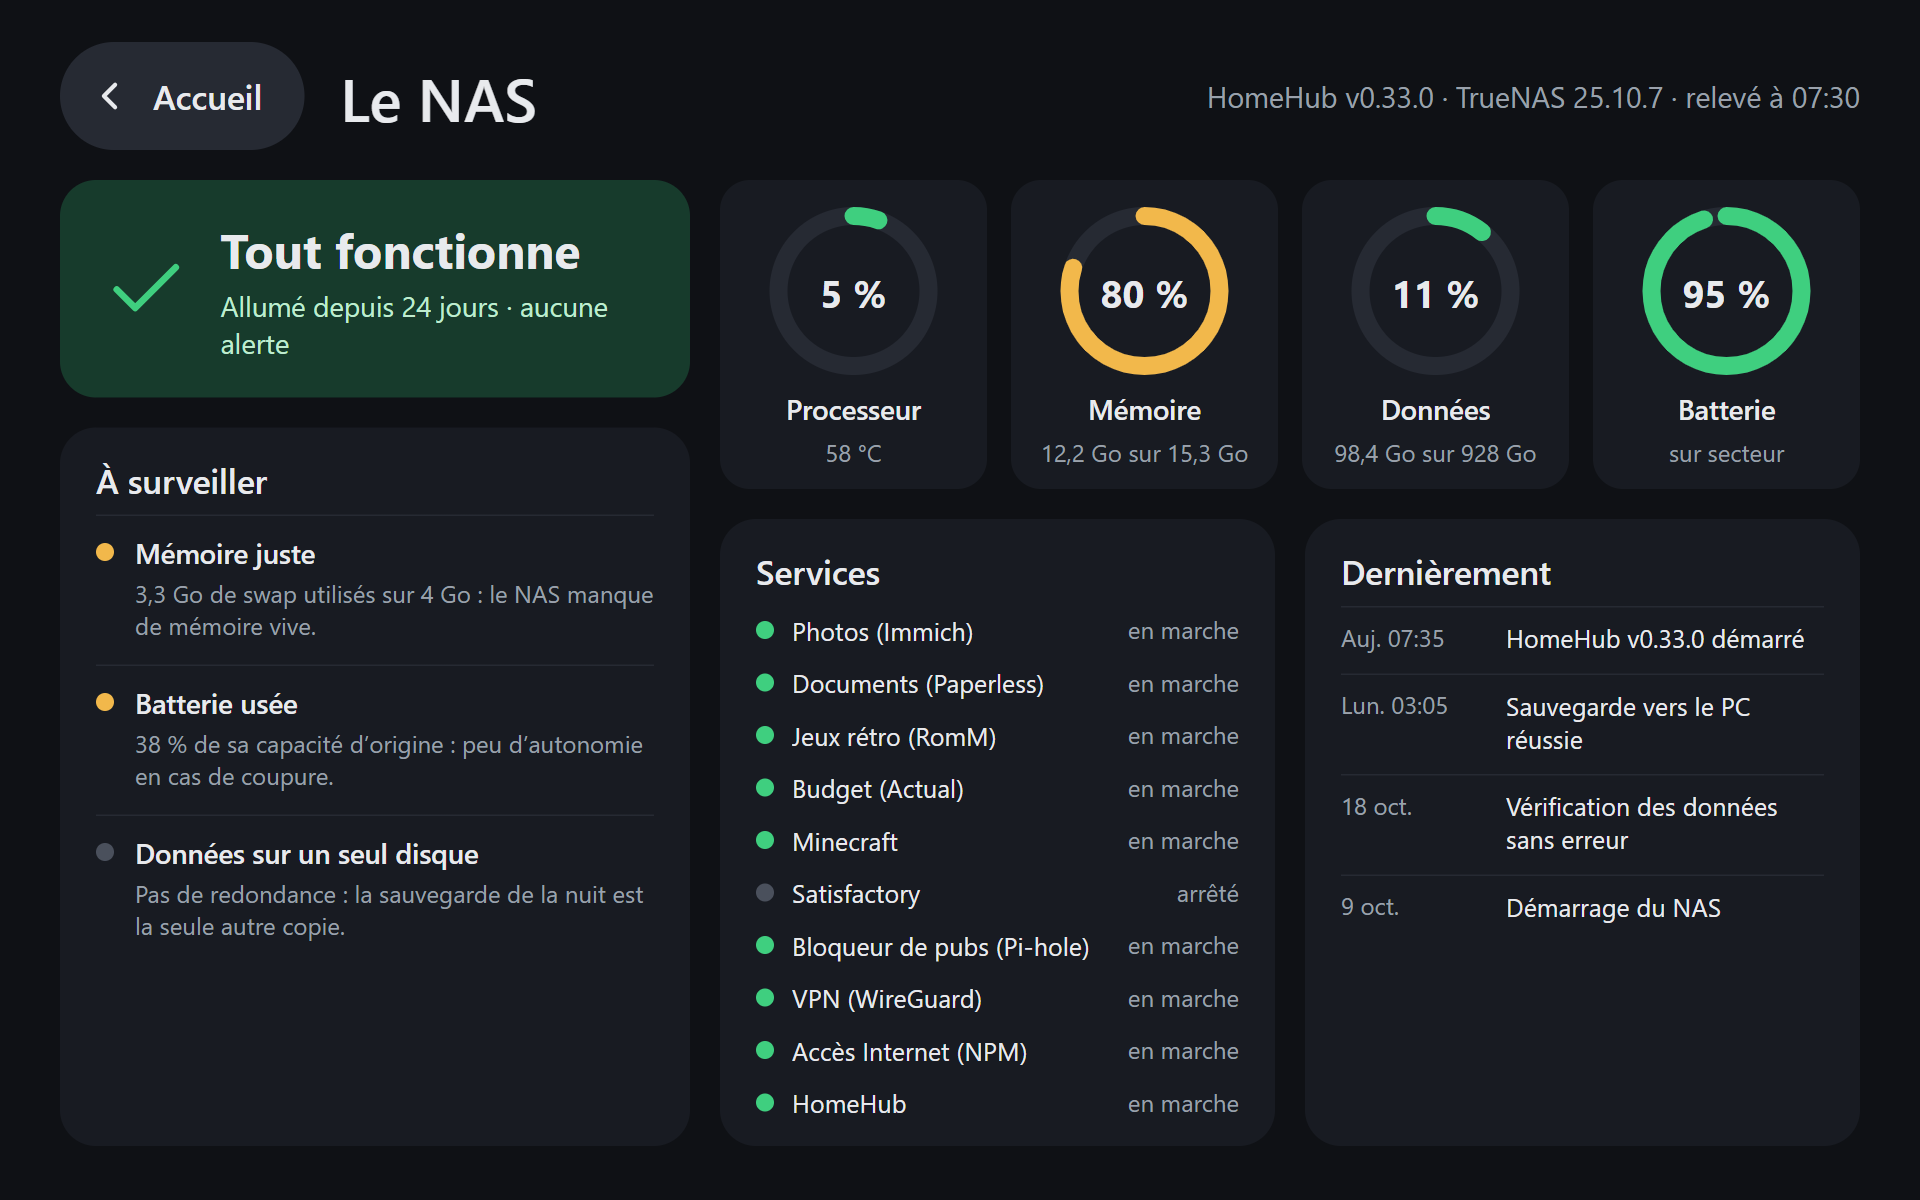
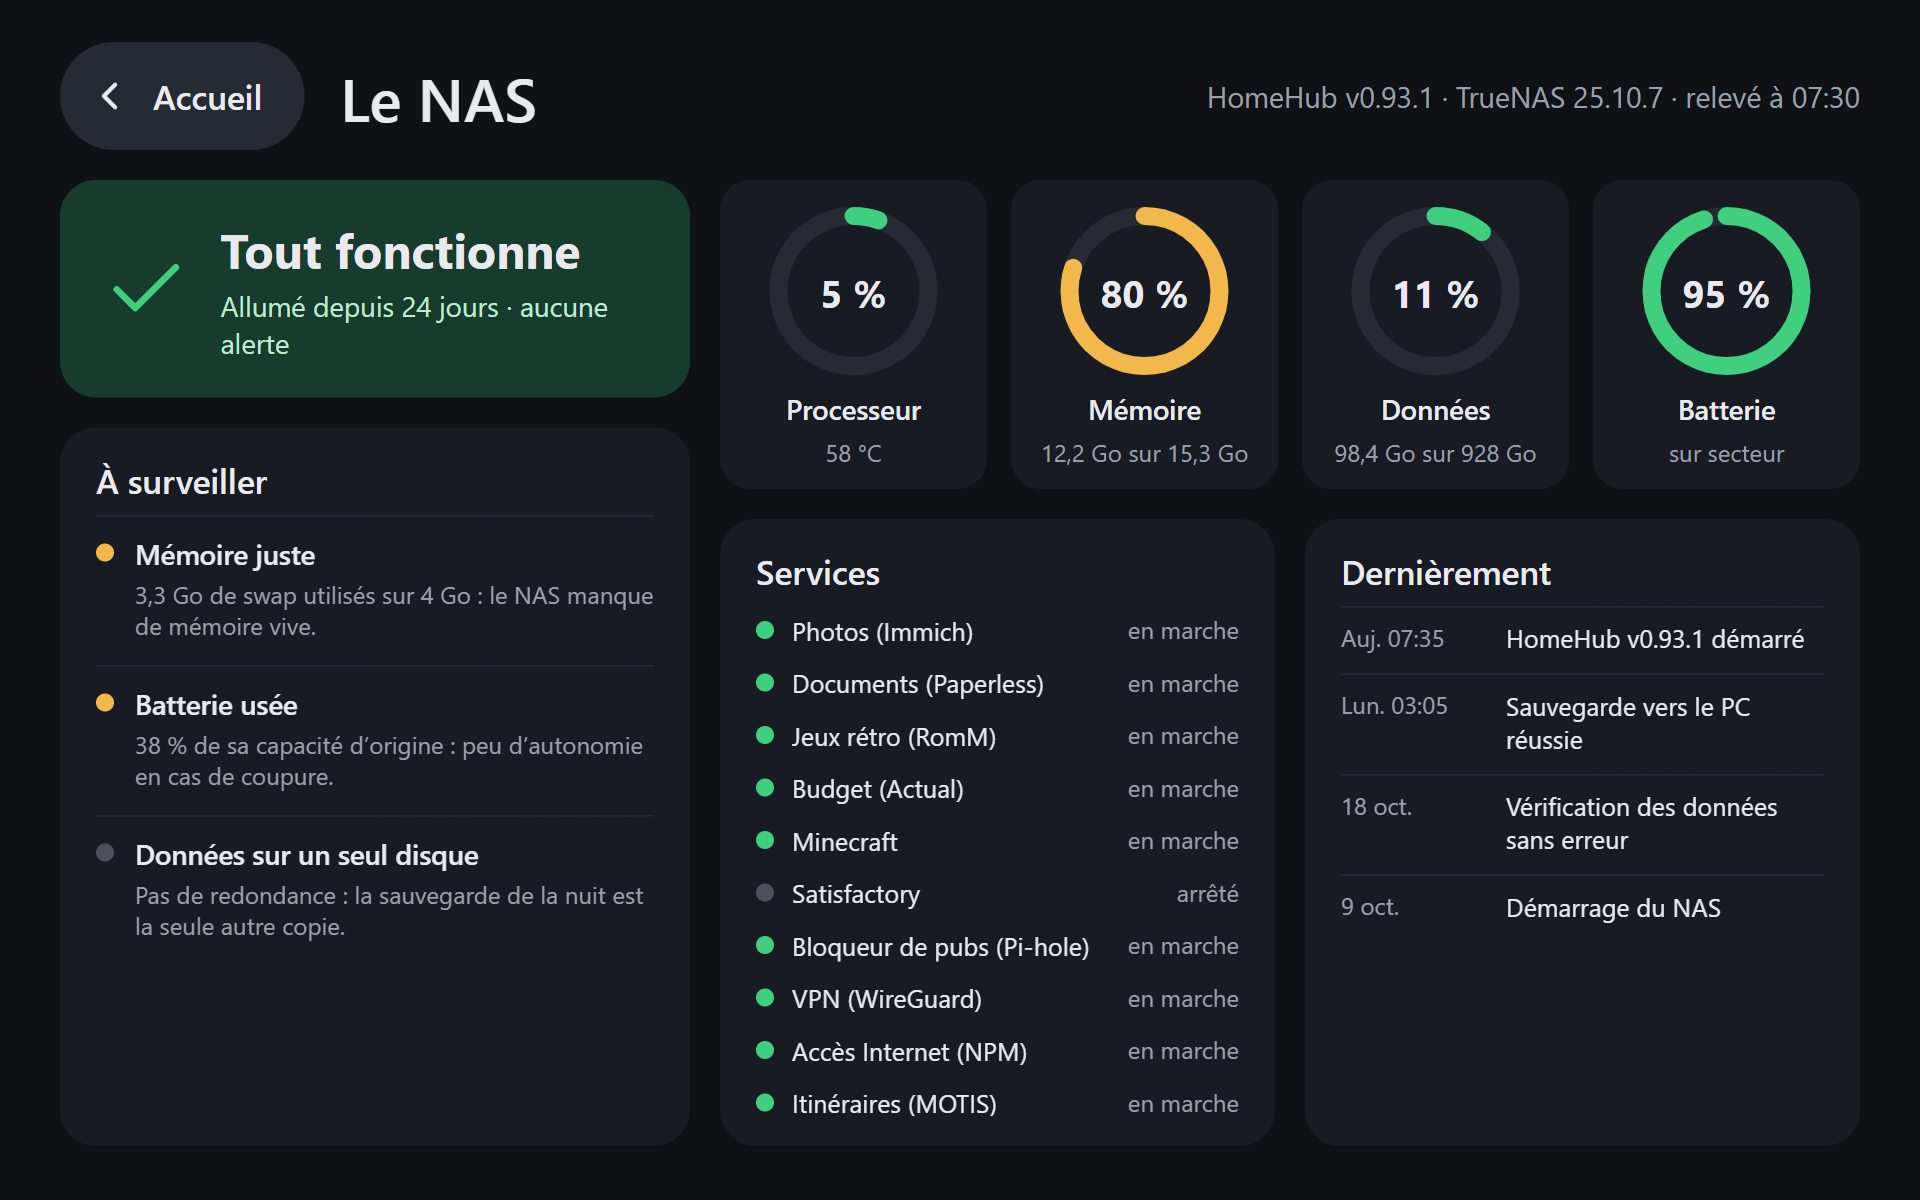
0.93.1 : page du NAS, la liste des services défile
- Tablette, page « Le NAS » : la liste des services défile au doigt quand elle dépasse sa carte (titre fixe) ;
  avant, les services sous le bas de l'écran étaient coupés et inaccessibles depuis l'arrivée de MOTIS.
- Même chose pour « À surveiller » et « Dernièrement » : les rangées de la grille sont bornées à l'écran, chaque
  corps de carte défile seul, la page ne bouge pas.
- Relevé d'exemple du monde fictif : 16 services (Itinéraires (MOTIS) compris), assez pour dépasser l'écran ;
  capture tablette-nas, README et docs/ecrans.md à jour.

diff --git a/web/src/screens/Nas.svelte b/web/src/screens/Nas.svelte
@@ -60,17 +60,19 @@
 
         <section class="card watch">
           <h2>À surveiller</h2>
-          {#each watch as item (item.title)}
-            <div class="watch-item">
-              <span class="dot top" style:background={levelColor(item.level)}></span>
-              <span class="watch-text">
-                <span class="watch-title">{item.title}</span>
-                <span class="muted small">{item.text}</span>
-              </span>
-            </div>
-          {:else}
-            <p class="muted">Rien à signaler.</p>
-          {/each}
+          <div class="scroll">
+            {#each watch as item (item.title)}
+              <div class="watch-item">
+                <span class="dot top" style:background={levelColor(item.level)}></span>
+                <span class="watch-text">
+                  <span class="watch-title">{item.title}</span>
+                  <span class="muted small">{item.text}</span>
+                </span>
+              </div>
+            {:else}
+              <p class="muted">Rien à signaler.</p>
+            {/each}
+          </div>
         </section>
       </div>
 
@@ -109,13 +111,15 @@
             {#if data.status}
               {@const services = nasServices(data.status)}
               {#if services}
-                {#each services as service (service.label)}
-                  <div class="row">
-                    <span class="dot" style:background={levelColor(service.level)}></span>
-                    <span class="row-label">{service.label}</span>
-                    <span class="muted small">{service.info}</span>
-                  </div>
-                {/each}
+                <div class="scroll">
+                  {#each services as service (service.label)}
+                    <div class="row">
+                      <span class="dot" style:background={levelColor(service.level)}></span>
+                      <span class="row-label">{service.label}</span>
+                      <span class="muted small">{service.info}</span>
+                    </div>
+                  {/each}
+                </div>
               {:else}
                 <p class="muted">État des services inconnu.</p>
               {/if}
@@ -126,15 +130,17 @@
 
           <section class="card">
             <h2>Dernièrement</h2>
-            {#each timeline as event (event.text)}
-              <div class="event">
-                <span class="muted small">{event.when}</span>
-                <span class="event-text">
-                  {#if event.level === 'bad'}<span class="dot inline" style:background={levelColor(event.level)}></span>{/if}
-                  {event.text}
-                </span>
-              </div>
-            {/each}
+            <div class="scroll">
+              {#each timeline as event (event.text)}
+                <div class="event">
+                  <span class="muted small">{event.when}</span>
+                  <span class="event-text">
+                    {#if event.level === 'bad'}<span class="dot inline" style:background={levelColor(event.level)}></span>{/if}
+                    {event.text}
+                  </span>
+                </div>
+              {/each}
+            </div>
           </section>
         </div>
       </div>
@@ -194,6 +200,7 @@
     min-height: 0;
     display: grid;
     grid-template-columns: 420px minmax(0, 1fr);
+    grid-template-rows: minmax(0, 1fr);
     gap: 20px;
   }
 
@@ -334,7 +341,19 @@
     min-height: 0;
     display: grid;
     grid-template-columns: minmax(0, 1fr) minmax(0, 1fr);
+    grid-template-rows: minmax(0, 1fr);
     gap: 20px;
+  }
+
+  /* Corps d'une carte : défile au doigt quand la liste dépasse (services, événements), le titre reste en place. */
+  .scroll {
+    flex-grow: 1;
+    min-height: 0;
+    overflow-y: auto;
+    overscroll-behavior: contain;
+    display: flex;
+    flex-direction: column;
+    gap: 4px;
   }
 
   .row {

diff --git a/server/sources/nas-status.test.ts b/server/sources/nas-status.test.ts
@@ -12,7 +12,7 @@ describe('relevé du NAS', () => {
     const status = await createNasStatusSource({ path: fixture, logger: silentLogger() }).read();
     expect(status?.version).toBe('25.10.7');
     expect(status?.pools[0]).toMatchObject({ name: 'X', redundant: false });
-    expect(status?.services).toHaveLength(10);
+    expect(status?.services).toHaveLength(16);
     expect(status).not.toHaveProperty('schema');
   });
 

diff --git a/docs/ecrans.md b/docs/ecrans.md
@@ -1,6 +1,6 @@
 # Écrans
 
-Captures de HomeHub 0.93.0, avec des **données fictives** : famille de test (Alex, Sam, Léa, Tom), agenda d'exemple,
+Captures de HomeHub 0.93.1, avec des **données fictives** : famille de test (Alex, Sam, Léa, Tom), agenda d'exemple,
 faux ÉcoleDirecte, faux temps réel Irigo, produits et marques inventés à la place d'Open Food Facts, recettes inventées sur un faux site de cuisine, fiches produit inventées d'une fausse enseigne de drive, calendrier
 scolaire d'exemple (zone B), horloge arrêtée le jeudi 5 novembre 2026 à 07:35 (le 11 novembre et en décembre pour les fériés et les vacances). La météo est réelle,
 celle du jour de la capture.
@@ -258,7 +258,8 @@ vacances** (heure effacée : pas de coucher ce soir-là), le délai du rappel et
 
 ### Le NAS
 
-État général, jauges, points à surveiller, services, événements récents (relevé d'exemple).
+État général, jauges, points à surveiller, services, événements récents (relevé d'exemple). Une liste plus longue que sa
+carte (ici les services) défile au doigt, le titre reste en place.
 
 ![Le NAS](images/tablette-nas.png)
 

diff --git a/README.md b/README.md
@@ -175,7 +175,8 @@ Captures, diagrammes d'architecture et design : [docs/](docs/README.md).
 
 - **Le NAS** (`/nas`) : ouvert par la roue dentée ou en touchant la version de HomeHub sur l'accueil ; état général, processeur,
   mémoire, données et batterie, points à surveiller (contrôles de santé du NAS, sources de HomeHub en erreur,
-  points faibles du matériel), services et événements récents (sauvegarde, vérification des données, démarrages).
+  points faibles du matériel), services et événements récents (sauvegarde, vérification des données, démarrages) ;
+  une liste plus longue que sa carte défile au doigt.
 - **Listes** (`/listes`) : courses et tâches de la famille, ouvertes depuis « Mes tâches » ou « Liste de courses ».
   Courses : saisie rapide, articles fréquents en un geste, articles cochés « dans le panier » jusqu'à « Vider » ;
   à acheter rangé par rayon, les lignes du menu de la semaine marquées avec leurs recettes.
